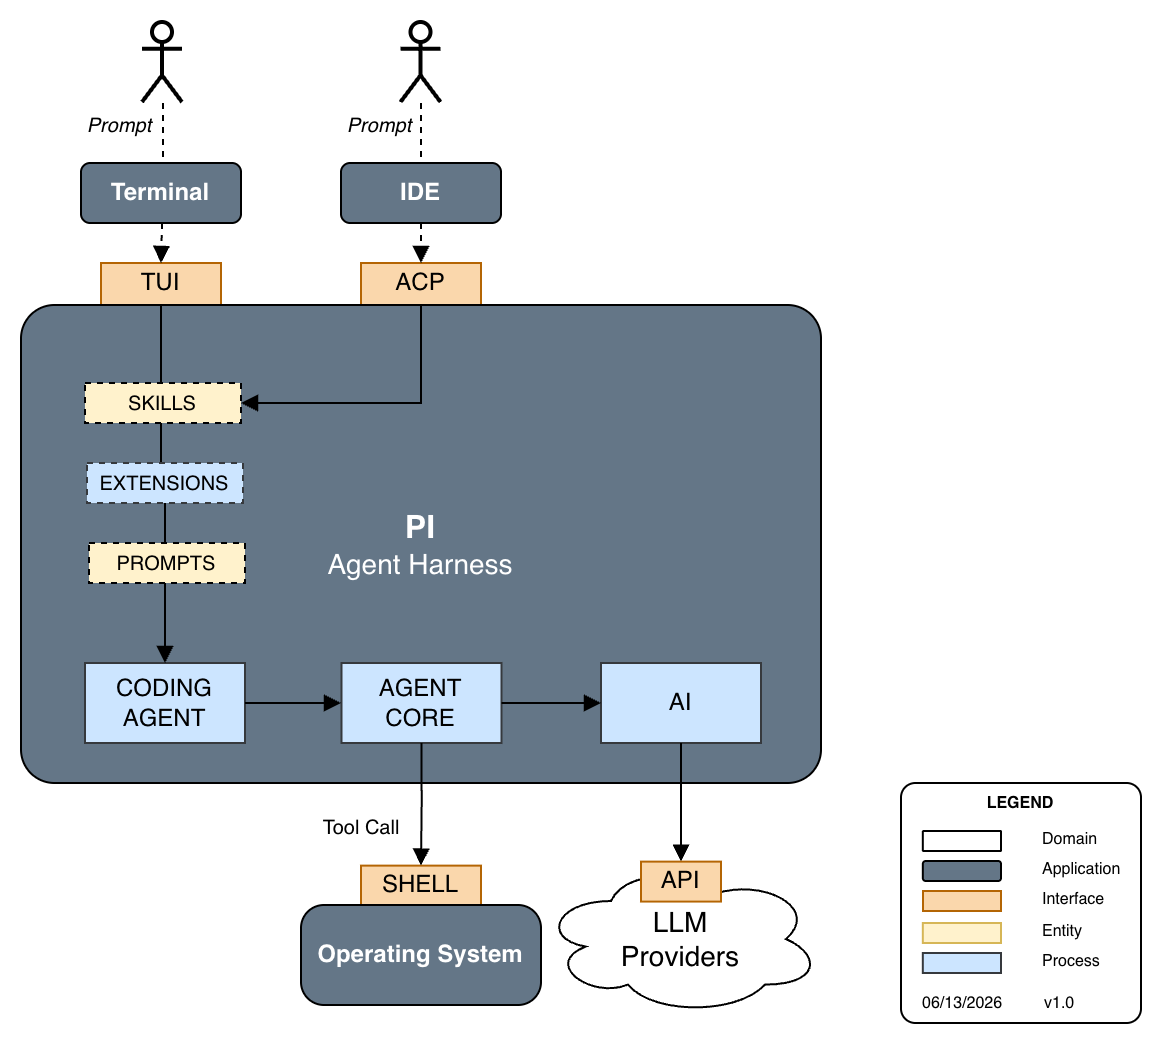
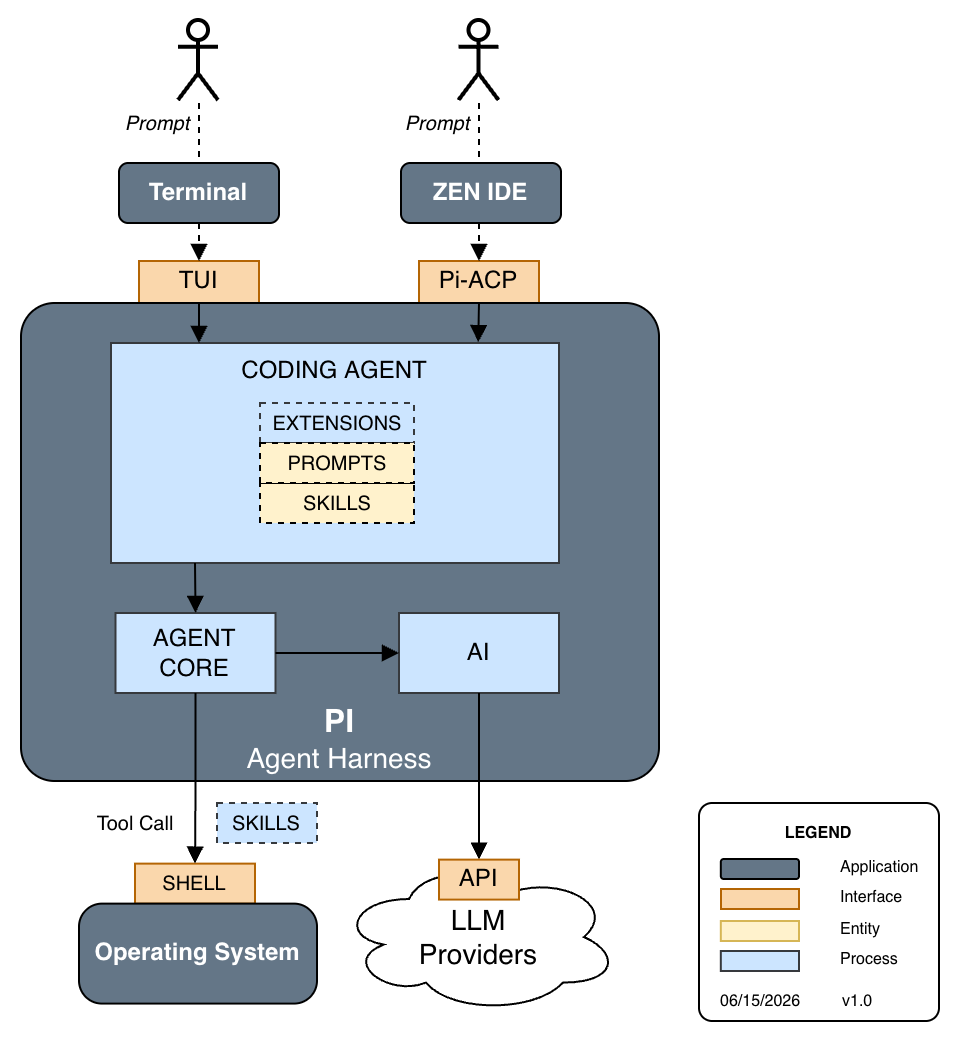
docs(diagrams): add dark variant and context window diagram
- Add dark-mode PNG of the architecture diagram
  (pi_agent_harness-dark.png) and update README hero image to use it
- Add a new context window diagram (context_window.png) illustrating
  the agent-LLM request/response loop with Tool Calls
- Update drawio source: rename ACP → Pi-ACP, IDE → ZEN IDE, expand
  CODING AGENT box to surface SKILLS, EXTENSIONS and PROMPTS
  components, move legend to standalone cells, and add Page-2 for the
  context window diagram
- Re-export pi_agent_harness.png with the updated layout and labels

diff --git a/README.md b/README.md
@@ -2,7 +2,7 @@
 
 A collection of [pi](https://github.com/earendil-works/pi-coding-agent) extensions that add interactive TUI overlays and productivity tools to your AI coding sessions.
 
-![Pi Agent Harness](diagrams/pi_agent_harness.png)
+![Pi Agent Harness](diagrams/pi_agent_harness-dark.png)
 
 ## Extensions
 
